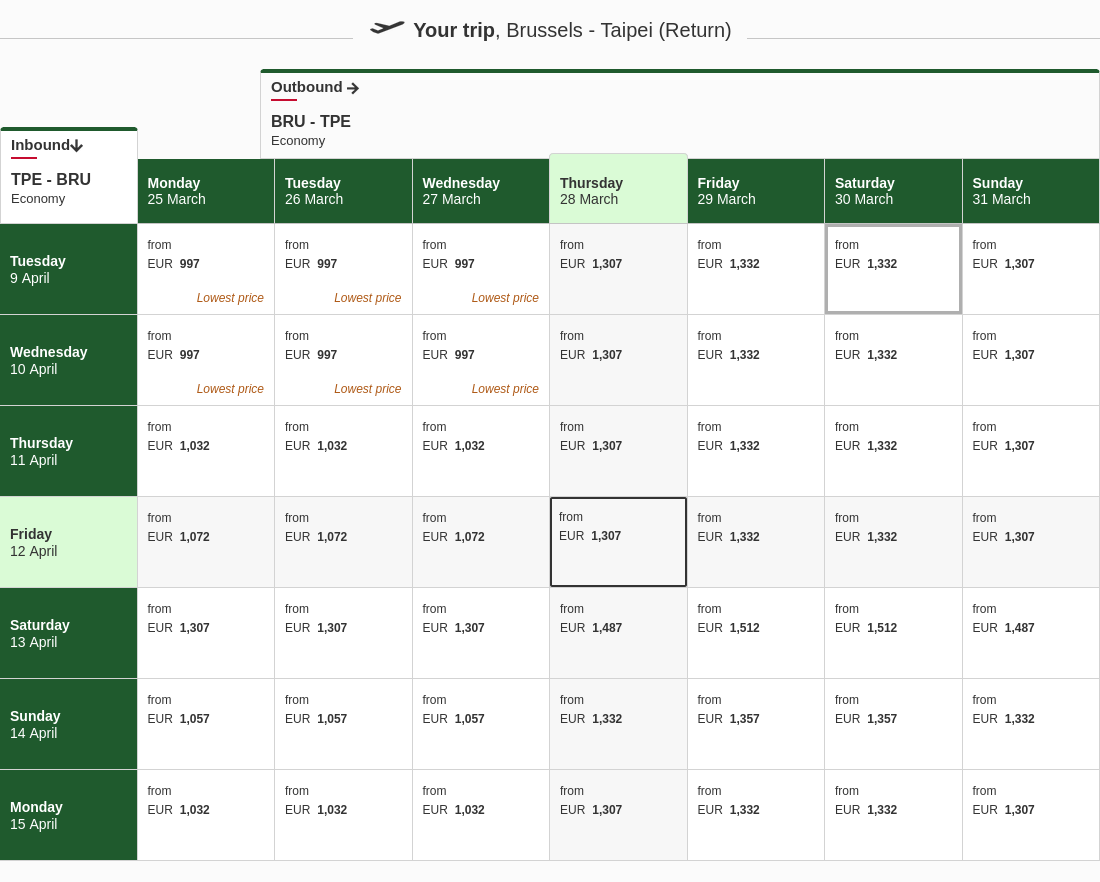
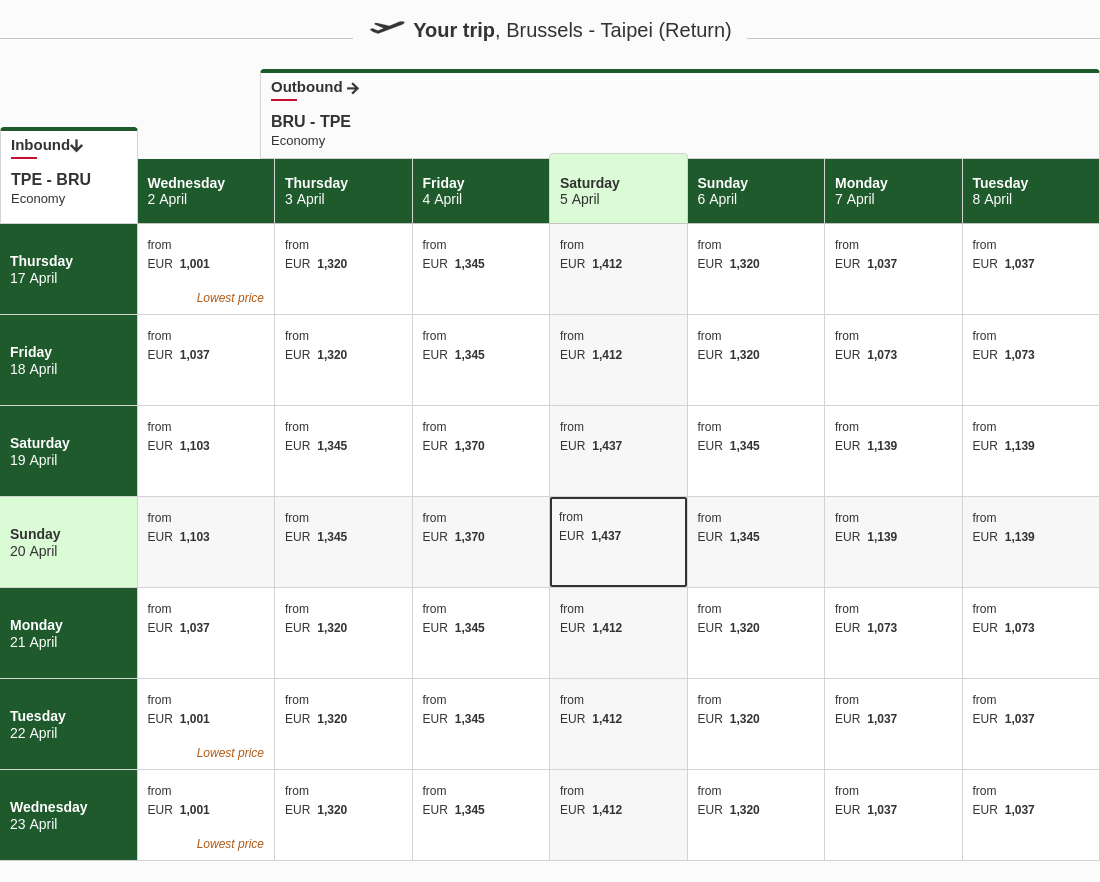
enabling taiwan for april 2025

diff --git a/tests/taiwan.spec.ts b/tests/taiwan.spec.ts
@@ -15,7 +15,7 @@ test.beforeEach(async ({ context }) => {
     await context.route(/(.*appdynamics.*)|(.*google.*)|(.*one.trust.*)|(.*boxever.*)/, route => route.abort());
 });
 
-test.skip('emirates', async ({ page }) => {
+test('emirates', async ({ page }) => {
 
     await page.goto('https://www.emirates.com/be/english/');
 
@@ -33,13 +33,13 @@ test.skip('emirates', async ({ page }) => {
     await page.getByText('TPE').click();
     await page.getByLabel('My dates are flexible (-/+ 3 days)').check();
 
-    while (! await page.getByText('March2024').isVisible()) {
+    while (! await page.getByText('April2025').isVisible()) {
         await page.getByRole('button', { name: 'Next Month' }).click();
     }
 
-    await page.getByRole('button', { name: 'Thursday, 28 March 2024' }).click();
+    await page.getByRole('button', { name: 'Saturday, 05 April 2025' }).click();
     await page.getByRole('button', { name: 'Next Month' }).click();
-    await page.getByRole('button', { name: 'Friday, 12 April 2024' }).click();
+    await page.getByRole('button', { name: 'Sunday, 20 April 2025' }).click();
     await page.getByRole('button', { name: 'Search flights' }).click();
 
     const gridResultPage = page.getByText('Your trip, Brussels - Taipei (Return) Outbound BRU - TPE Economy Outbound Brusse');

diff --git a/scrapes/taiwan/emirates.md b/scrapes/taiwan/emirates.md
@@ -1,12 +1,12 @@
 |     |     |     |     |     |     |     |     |
 | --- | --- | --- | --- | --- | --- | --- | --- |
-| Inbound<br><br>TPE - BRU<br><br>Economy<br><br>Inbound Taipei to Taipei in Economy Class | **Monday**<br><br>25 March | **Tuesday**<br><br>26 March | **Wednesday**<br><br>27 March | **Thursday**<br><br>28 March | **Friday**<br><br>29 March | **Saturday**<br><br>30 March | **Sunday**<br><br>31 March |
-| **Tuesday**<br><br>9 April | **997** | **997** | **997** | **1,307** | **1,332** | **1,332** | **1,307** |
-| **Wednesday**<br><br>10 April | **997** | **997** | **997** | **1,307** | **1,332** | **1,332** | **1,307** |
-| **Thursday**<br><br>11 April | **1,032** | **1,032** | **1,032** | **1,307** | **1,332** | **1,332** | **1,307** |
-| **Friday**<br><br>12 April | **1,072** | **1,072** | **1,072** | **1,307** | **1,332** | **1,332** | **1,307** |
-| **Saturday**<br><br>13 April | **1,307** | **1,307** | **1,307** | **1,487** | **1,512** | **1,512** | **1,487** |
-| **Sunday**<br><br>14 April | **1,057** | **1,057** | **1,057** | **1,332** | **1,357** | **1,357** | **1,332** |
-| **Monday**<br><br>15 April | **1,032** | **1,032** | **1,032** | **1,307** | **1,332** | **1,332** | **1,307** |
+| Inbound<br><br>TPE - BRU<br><br>Economy<br><br>Inbound Taipei to Taipei in Economy Class | **Wednesday**<br><br>2 April | **Thursday**<br><br>3 April | **Friday**<br><br>4 April | **Saturday**<br><br>5 April | **Sunday**<br><br>6 April | **Monday**<br><br>7 April | **Tuesday**<br><br>8 April |
+| **Thursday**<br><br>17 April | **1,001** | **1,320** | **1,345** | **1,412** | **1,320** | **1,037** | **1,037** |
+| **Friday**<br><br>18 April | **1,037** | **1,320** | **1,345** | **1,412** | **1,320** | **1,073** | **1,073** |
+| **Saturday**<br><br>19 April | **1,103** | **1,345** | **1,370** | **1,437** | **1,345** | **1,139** | **1,139** |
+| **Sunday**<br><br>20 April | **1,103** | **1,345** | **1,370** | **1,437** | **1,345** | **1,139** | **1,139** |
+| **Monday**<br><br>21 April | **1,037** | **1,320** | **1,345** | **1,412** | **1,320** | **1,073** | **1,073** |
+| **Tuesday**<br><br>22 April | **1,001** | **1,320** | **1,345** | **1,412** | **1,320** | **1,037** | **1,037** |
+| **Wednesday**<br><br>23 April | **1,001** | **1,320** | **1,345** | **1,412** | **1,320** | **1,037** | **1,037** |
 
 ![](emirates.png)
